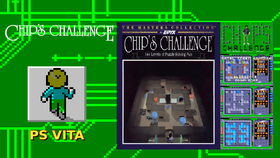
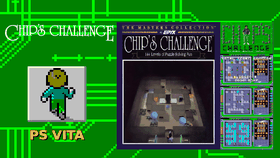
Save bubble and LiveArea images as 8-bit palette PNGs
The Vita installer rejects truecolor images with error 0x8010113D.

diff --git a/tools/build_vita_assets.py b/tools/build_vita_assets.py
@@ -27,6 +27,13 @@ def title(draw: ImageDraw.ImageDraw, xy: tuple[int, int], text: str, size: int) 
     draw.text(xy, text, font=font, fill=(255, 236, 42), stroke_width=1, stroke_fill=(180, 24, 24))
 
 
+def vita_png(image):
+    """LiveArea and bubble images must be 8-bit palette PNGs; the Vita's
+    installer rejects truecolor ones with error 0x8010113D."""
+    return image.convert("RGB").quantize(colors=256, method=Image.Quantize.MEDIANCUT,
+                                         dither=Image.Dither.NONE)
+
+
 def main() -> None:
     parser = argparse.ArgumentParser()
     parser.add_argument("bitmaps", type=Path)
@@ -49,7 +56,7 @@ def main() -> None:
     logo_icon.thumbnail((120, 58), Image.Resampling.LANCZOS)
     icon.paste(logo_icon, ((128 - logo_icon.width) // 2, 6), logo_icon)
     icon.paste(player.resize((62, 62), Image.Resampling.NEAREST), (33, 62))
-    icon.save(args.output / "icon0.png", optimize=True)
+    vita_png(icon).save(args.output / "icon0.png", optimize=True)
 
     background = cover(circuit, (840, 500)).convert("RGB")
     retail_panel = cover(retail, (470, 403))
@@ -60,12 +67,12 @@ def main() -> None:
     player_large = player.resize((176, 176), Image.Resampling.NEAREST)
     background.paste(player_large, (83, 210))
     title(ImageDraw.Draw(background), (88, 405), "PS VITA", 38)
-    background.save(args.output / "bg0.png", optimize=True)
+    vita_png(background).save(args.output / "bg0.png", optimize=True)
 
     startup = background.resize((280, 158), Image.Resampling.LANCZOS)
-    startup.save(args.output / "startup.png", optimize=True)
+    vita_png(startup).save(args.output / "startup.png", optimize=True)
     pic = cover(background, (960, 544))
-    pic.save(args.output / "pic0.png", optimize=True)
+    vita_png(pic).save(args.output / "pic0.png", optimize=True)
 
     (args.output / "template.xml").write_text("""<?xml version=\"1.0\" encoding=\"UTF-8\"?>
 <livearea style=\"a1\" format-ver=\"01.00\" content-rev=\"1\">
